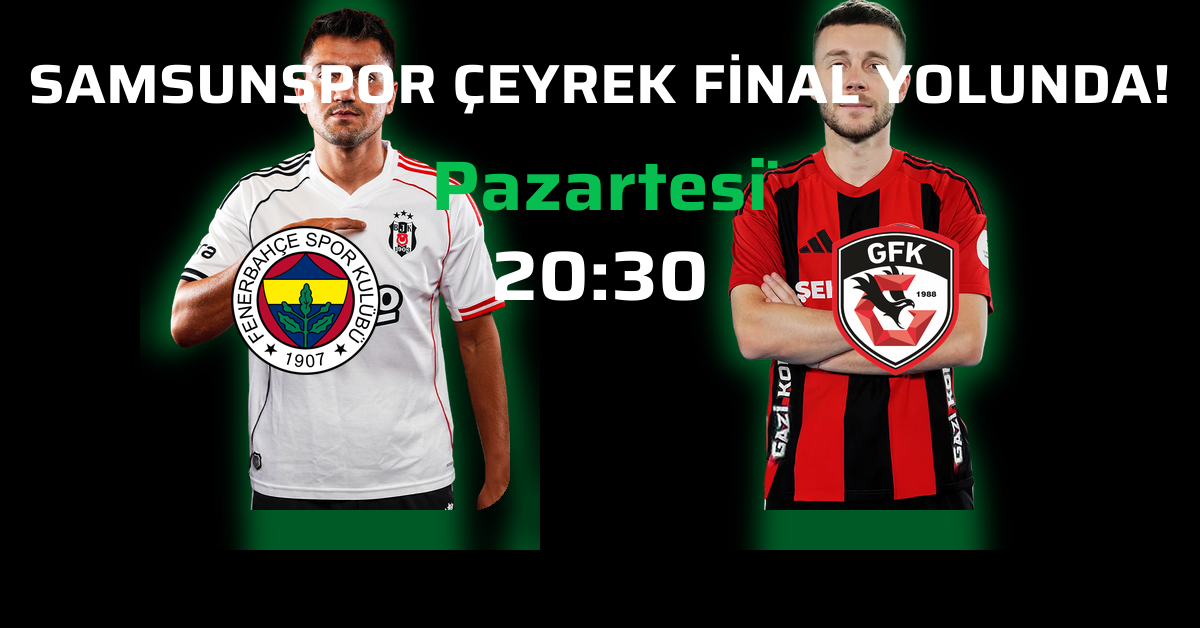
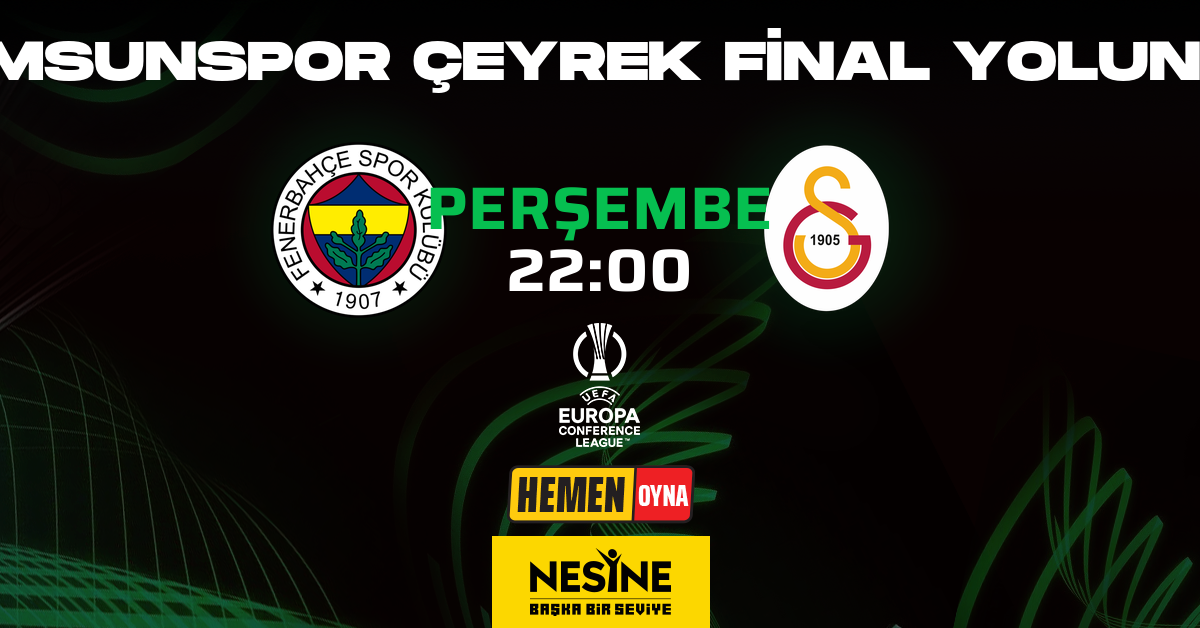
uefa 1200 devam edıyor oyuncular eklencek, text inputlar eklenecek

diff --git a/backend/core/layouts/uefa/uefa_1200.py b/backend/core/layouts/uefa/uefa_1200.py
@@ -5,82 +5,94 @@ from ..base import BaseLayout
 
 class UEFA1200(BaseLayout):
     def render(self, data):
-        """Golden UEFA 1200x628 (Ported from 4da58c59 v22)."""
+        """PSD-Perfect UEFA 1200x628 Replication (Smaller Logos & Final Branding)."""
         width, height = 1200, 628
         canvas = Image.new("RGBA", (width, height), (0, 0, 0, 255))
         draw = ImageDraw.Draw(canvas)
         
-        # 1. Config
-        headless = not data.get("match_title")
-        f_path = "/Users/ayseguler/Documents/vs_projeler/Karbonat/kick-grok/fonts/uefa/Saira_SemiExpanded-Bold.ttf"
-        
-        if headless:
-            p_offset, title_y, day_y, hour_y = 240, 0, 90, 170
-            logo_pos = [{"x": 145, "y": 120, "size": 180}, {"x": 1055, "y": 120, "size": 180}]
+        # 1. Config & Assets
+        f_title = "/Users/ayseguler/Documents/vs_projeler/Karbonat/kick-grok/fonts/ziraat/MonumentExtended-Ultrabold.otf"
+        f_saira = "/Users/ayseguler/Documents/vs_projeler/Karbonat/kick-grok/fonts/uefa/Saira_SemiExpanded-Bold.ttf"
+        u_logo_path = "/Users/ayseguler/Documents/vs_projeler/Karbonat/kick-grok/frontend/public/assets/branding/uefa_logo.png"
+        bg_path = "/Users/ayseguler/Documents/vs_projeler/Karbonat/kick-grok/backend/assets/templates/uefa_full_bg.png"
+
+        # 2. Background
+        if os.path.exists(bg_path):
+            bg = Image.open(bg_path).convert("RGBA")
+            canvas.alpha_composite(bg, (0, 0))
         else:
-            p_offset, title_y, day_y, hour_y = 260, 40, 130, 220
-            logo_pos = [{"x": 305, "y": 300, "size": 160}, {"x": 895, "y": 300, "size": 160}]
+            draw.rectangle([0, 0, width, height], fill=(0, 0, 0, 255))
 
-        # 2. Arka Plan (Shadow / Glow)
-        anchors = [(width//2 - p_offset, 250), (width//2 + p_offset, 250)]
-        for i in [1, 2]:
-            p_path = data.get(f"player_{i}_path")
-            if p_path and os.path.exists(p_path):
-                # Ghost / Shadow
-                ghost = Image.open(p_path).convert("RGBA")
-                ghost = ImageOps.fit(ghost, (400, 600), Image.Resampling.LANCZOS)
-                shadow = Image.new("RGBA", (400, 600), (0,0,0,0))
-                shadow.paste((0, 191, 80, 120), [0, 0, 400, 600], ghost) # Neon Green Shadow
-                shadow = shadow.filter(ImageFilter.GaussianBlur(15))
-                canvas.alpha_composite(shadow, (anchors[i-1][0] - 200, anchors[i-1][1] - 300))
+        # 3. Takım Logoları (Küçültülmüş - Kullanıcı Talebi)
+        # Orijinal Merkezler: Logo 1 [358, 229], Logo 2 [826, 228]
+        # Yeni Boyutlar: ~20% Küçültme (yaklaşık 185x210)
+        logos_data = [
+            {"path": data.get("logo_1_path"), "center": (358, 229), "max_size": (185, 210)},
+            {"path": data.get("logo_2_path"), "center": (826, 228), "max_size": (175, 210)}
+        ]
 
-        # 3. Oyuncular (Pill Mask)
-        for i in [1, 2]:
-            p_path = data.get(f"player_{i}_path")
-            if p_path and os.path.exists(p_path):
-                p_img = ImageOps.fit(Image.open(p_path).convert("RGBA"), (340, 520), Image.Resampling.LANCZOS, centering=(0.5, 0.0))
-                p_mask = Image.new("L", (340, 520), 0)
-                ImageDraw.Draw(p_mask).rounded_rectangle([0, 0, 340, 520], radius=40, fill=255)
-                p_final = Image.new("RGBA", (340, 520), (0,0,0,0))
-                p_final.paste(p_img, (0, 0), p_mask)
-                canvas.alpha_composite(p_final, (anchors[i-1][0] - 170, anchors[i-1][1] - 260))
+        for l in logos_data:
+            if l["path"] and os.path.exists(l["path"]):
+                # Logo Glow (Hafif küçültülmüş yarıçap)
+                self.draw_glow(canvas, l["center"], radius=140, color=(0, 191, 80, 60))
+                
+                l_img = Image.open(l["path"]).convert("RGBA")
+                l_img.thumbnail(l["max_size"], Image.Resampling.LANCZOS)
+                # Merkeze yerleştir
+                canvas.alpha_composite(l_img, (l["center"][0] - l_img.width // 2, l["center"][1] - l_img.height // 2))
 
-        # 4. Takım Logoları
-        for i in [1, 2]:
-            l_path = data.get(f"logo_{i}_path")
-            if l_path and os.path.exists(l_path):
-                l_img = Image.open(l_path).convert("RGBA")
-                s = logo_pos[i-1]["size"]
-                l_img.thumbnail((s, s), Image.Resampling.LANCZOS)
-                canvas.alpha_composite(l_img, (logo_pos[i-1]["x"] - l_img.width//2, logo_pos[i-1]["y"] - l_img.height//2))
-
-        # 5. Yazılar (Typography)
+        # 4. Yazılar
         try:
-            font_title = ImageFont.truetype(f_path, 55)
-            font_time = ImageFont.truetype(f_path, 70)
-            
-            if not headless:
-                title = data.get('match_title', 'UEFA EUROPA LEAGUE').upper()
+            title = data.get('match_title', '').upper()
+            if title:
+                font_title = ImageFont.truetype(f_title, 55)
                 tw = draw.textlength(title, font=font_title)
-                draw.text(((width-tw)//2, title_y), title, font=font_title, fill="white")
+                draw.text(((width - tw) // 2, 30), title, font=font_title, fill="white")
             
-            day_text = data.get('day', 'Perşembe').capitalize()
-            hour_text = data.get('hour', '21:00')
-            dw = draw.textlength(day_text, font=font_time)
-            hw = draw.textlength(hour_text, font=font_time)
-            draw.text(((width-dw)//2, day_y), day_text, font=font_time, fill="#06BF50") # Neon Green
-            draw.text(((width-hw)//2, hour_y), hour_text, font=font_time, fill="white")
-        except: pass
+            day_text = data.get('day', 'PAZARTESİ').upper()
+            hour_text = data.get('hour', '20:30')
+            font_info = ImageFont.truetype(f_saira, 60)
+            
+            dw = draw.textlength(day_text, font=font_info)
+            draw.text(((width - dw) // 2, 160), day_text, font=font_info, fill="#06BF50")
+            
+            hw = draw.textlength(hour_text, font=font_info)
+            draw.text(((width - hw) // 2, 222), hour_text, font=font_info, fill="white")
+        except Exception as e:
+            print(f"Typo Error: {e}")
 
-        # 6. Branding (UEFA Logo & Hemen Oyna)
-        u_path = "/Users/ayseguler/Documents/vs_projeler/Karbonat/kick-grok/backend/uefa_logo.png"
-        if os.path.exists(u_path):
-            u_img = Image.open(u_path).convert("RGBA")
-            u_img.thumbnail((240, 110), Image.Resampling.LANCZOS)
-            canvas.alpha_composite(u_img, ((width-u_img.width)//2, 330))
+        # 5. Branding (UEFA Logo & Hemen Oyna)
+        if os.path.exists(u_logo_path):
+            u_img = Image.open(u_logo_path).convert("RGBA")
+            u_img = u_img.resize((81, 124), Image.Resampling.LANCZOS)
+            canvas.alpha_composite(u_img, ((width - u_img.width) // 2, 323))
 
-        # Save Output
+        ho_path = "/Users/ayseguler/Documents/vs_projeler/Karbonat/kick-grok/frontend/public/assets/branding/hemen_oyna.png"
+        if os.path.exists(ho_path):
+            ho_img = Image.open(ho_path).convert("RGBA")
+            ho_img = ho_img.resize((190, 59), Image.Resampling.LANCZOS)
+            canvas.alpha_composite(ho_img, (506, 465))
+
+        draw.rectangle([492, 536, 492 + 217, 536 + 93], fill=(252, 215, 0))
+        n_logo_path = "/Users/ayseguler/Documents/vs_projeler/Karbonat/kick-grok/frontend/public/assets/branding/nesine_logo.png"
+        if os.path.exists(n_logo_path):
+            n_img = Image.open(n_logo_path).convert("RGBA")
+            n_img.thumbnail((180, 70), Image.Resampling.LANCZOS)
+            canvas.alpha_composite(n_img, (492 + (217 - n_img.width) // 2, 536 + (93 - n_img.height) // 2))
+
+        # 6. Save Output
         out_path = os.path.join(os.path.dirname(__file__), "..", "..", "..", "output", "banner_uefa_1200.png")
         os.makedirs(os.path.dirname(out_path), exist_ok=True)
         canvas.save(out_path)
         return out_path
+
+    def draw_glow(self, canvas, pos, radius, color):
+        """Standard UEFA radial glow."""
+        x, y = pos
+        glow = Image.new("RGBA", (radius*4, radius*4), (0,0,0,0))
+        d = ImageDraw.Draw(glow)
+        for r in range(radius, 0, -2):
+            alpha = int(color[3] * (1 - r/radius))
+            d.ellipse([2*radius-r, 2*radius-r, 2*radius+r, 2*radius+r], fill=(color[0], color[1], color[2], alpha))
+        glow = glow.filter(ImageFilter.GaussianBlur(15))
+        canvas.alpha_composite(glow, (x - 2*radius, y - 2*radius))
